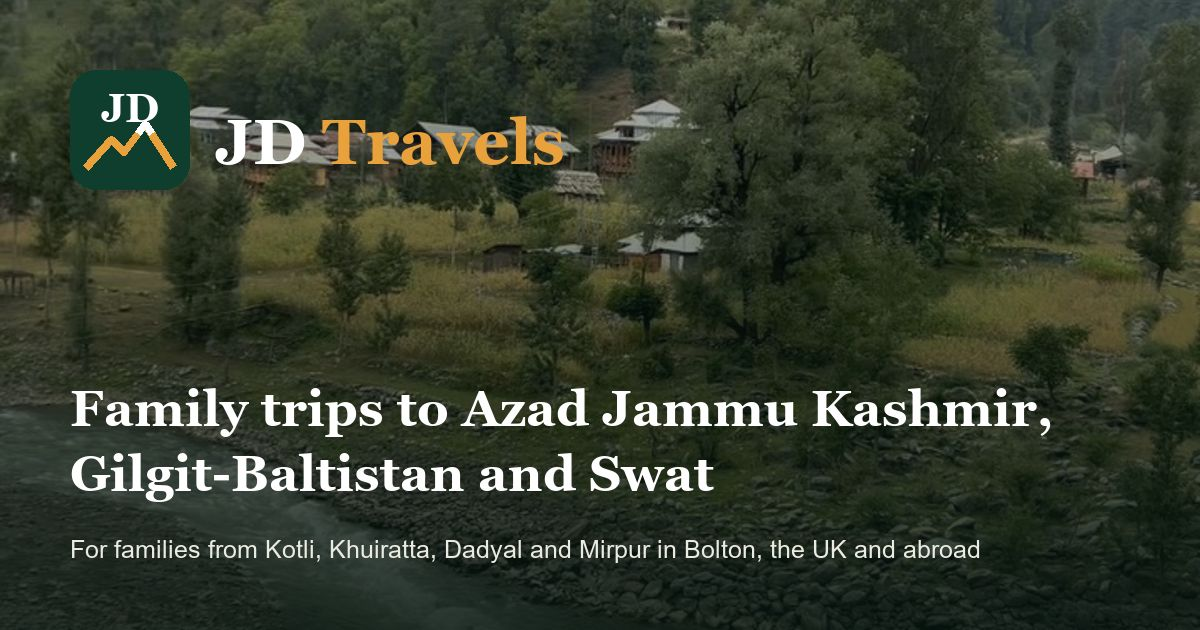
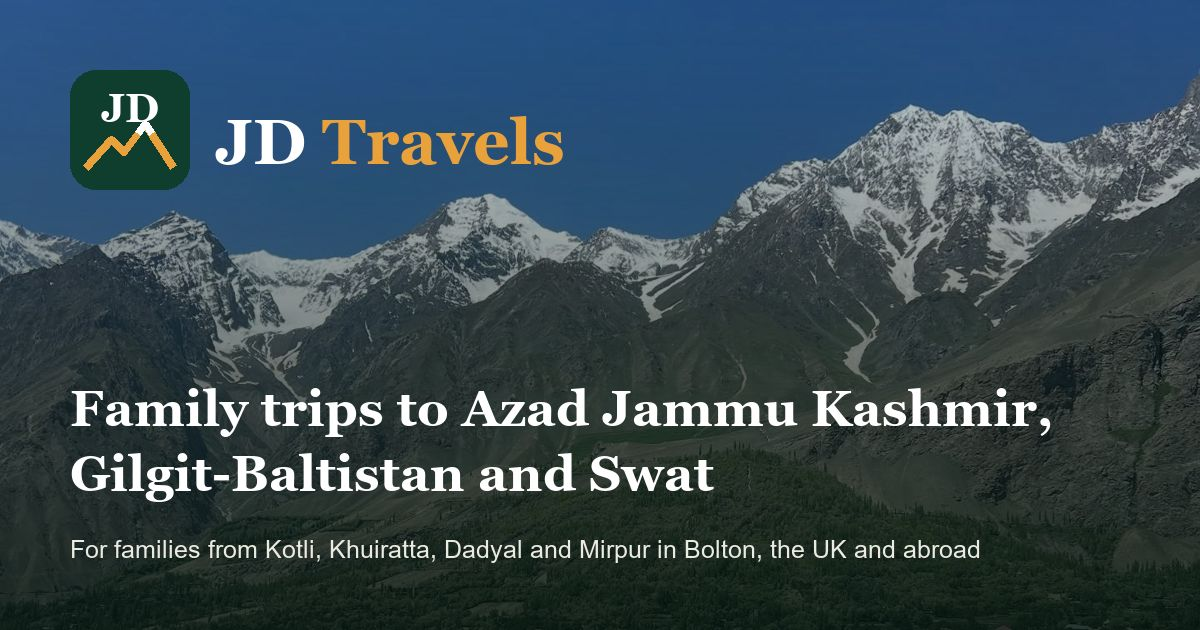
Use JD's Chunda Valley photo as the home background and share image

diff --git a/src/app/page.tsx b/src/app/page.tsx
@@ -2,7 +2,7 @@ import { CalendarDays, Check, MapPin, MessageCircle, Phone, Plane, Users, Car, H
 import { families, intro, photos, regions, reels, steps, vehicles, waLink as makeWaLink } from "@/content/site";
 import { getContent } from "@/lib/store";
 import { exists } from "@/lib/media";
-import { Carousel, EnquiryForm, Header, HeroVideo, Tabs, WhatsAppFloat } from "@/components/client";
+import { Carousel, EnquiryForm, Header, Tabs, WhatsAppFloat } from "@/components/client";
 import { Vehicles } from "@/components/Vehicles";
 import { Gallery } from "@/components/Gallery";
 import { Reveal } from "@/components/Reveal";
@@ -10,13 +10,10 @@ import { SiteFooter } from "@/components/SiteFooter";
 import { Facebook, Instagram } from "@/components/SocialIcons";
 import { SITE_URL } from "@/lib/site-url";
 import { Media } from "@/components/Media";
-import { Scene } from "@/components/Scene";
 import { Flags } from "@/components/Flags";
 
 const pointIcons = [Plane, Car, Users, UtensilsCrossed, Smartphone, Heart];
 
-const HERO_VIDEO = "/media/reels/neelum.mp4";
-const HERO_POSTER = "/media/reels/neelum.webp";
 
 function SectionHead({ eyebrow, title, text, light = false }: { eyebrow: string; title: string; text?: string; light?: boolean }) {
   return (
@@ -31,7 +28,6 @@ function SectionHead({ eyebrow, title, text, light = false }: { eyebrow: string;
 export default async function Home() {
   const { hero, contact, trips, faqs } = await getContent();
   const waLink = (text: string) => makeWaLink(contact.whatsapp, text);
-  const heroVideo = exists(HERO_VIDEO);
   const reelList = reels.filter((r) => exists(`/media/${r.file}.mp4`));
   const photoList = photos.filter((p) => exists(`/media/${p.file}.webp`));
 
@@ -66,12 +62,12 @@ export default async function Home() {
         {/* Hero */}
         <section className="relative flex min-h-[100svh] items-center overflow-hidden bg-pine-dark text-white">
           <div className="absolute inset-0">
-            {heroVideo ? (
-              <HeroVideo src={HERO_VIDEO} poster={HERO_POSTER} alt="Neelum Valley, Azad Jammu Kashmir" />
-            ) : (
-              <Scene name="river" className="h-full w-full" />
-            )}
-            <div className="absolute inset-0 bg-gradient-to-t from-black/75 via-black/40 to-black/50" />
+            <picture>
+              <source media="(max-width: 768px)" srcSet="/media/hero-mobile.webp" />
+              {/* eslint-disable-next-line @next/next/no-img-element */}
+              <img src="/media/hero.webp" alt="Snow peaks above Chunda Valley, Skardu. Photo by JD" fetchPriority="high" className="hero-zoom h-full w-full object-cover object-[center_30%]" />
+            </picture>
+            <div className="absolute inset-0 bg-gradient-to-t from-black/70 via-black/30 to-black/45" />
           </div>
           <div className="relative mx-auto w-full max-w-[1200px] px-4 pt-32 pb-20 text-center sm:pb-28">
             <div className="hero-in">

diff --git a/src/app/globals.css b/src/app/globals.css
@@ -50,6 +50,10 @@ h1, h2, h3, .font-heading {
   animation: wa-ring 2.2s cubic-bezier(0, 0, 0.2, 1) infinite;
 }
 
+/* Slow zoom on the hero photo */
+@keyframes hero-zoom { from { transform: scale(1.08); } to { transform: scale(1); } }
+.hero-zoom { animation: hero-zoom 8s ease-out both; }
+
 /* Hero entrance */
 @keyframes rise {
   from { opacity: 0; transform: translateY(24px); }
@@ -78,5 +82,5 @@ h1, h2, h3, .font-heading {
 @media (prefers-reduced-motion: reduce) {
   html { scroll-behavior: auto; }
   .reveal { animation: none; }
-  .wa-ring, .hero-in > *, .drive, .wheel, .vehicle-card { animation: none; }
+  .wa-ring, .hero-in > *, .drive, .wheel, .vehicle-card, .hero-zoom { animation: none; }
 }
